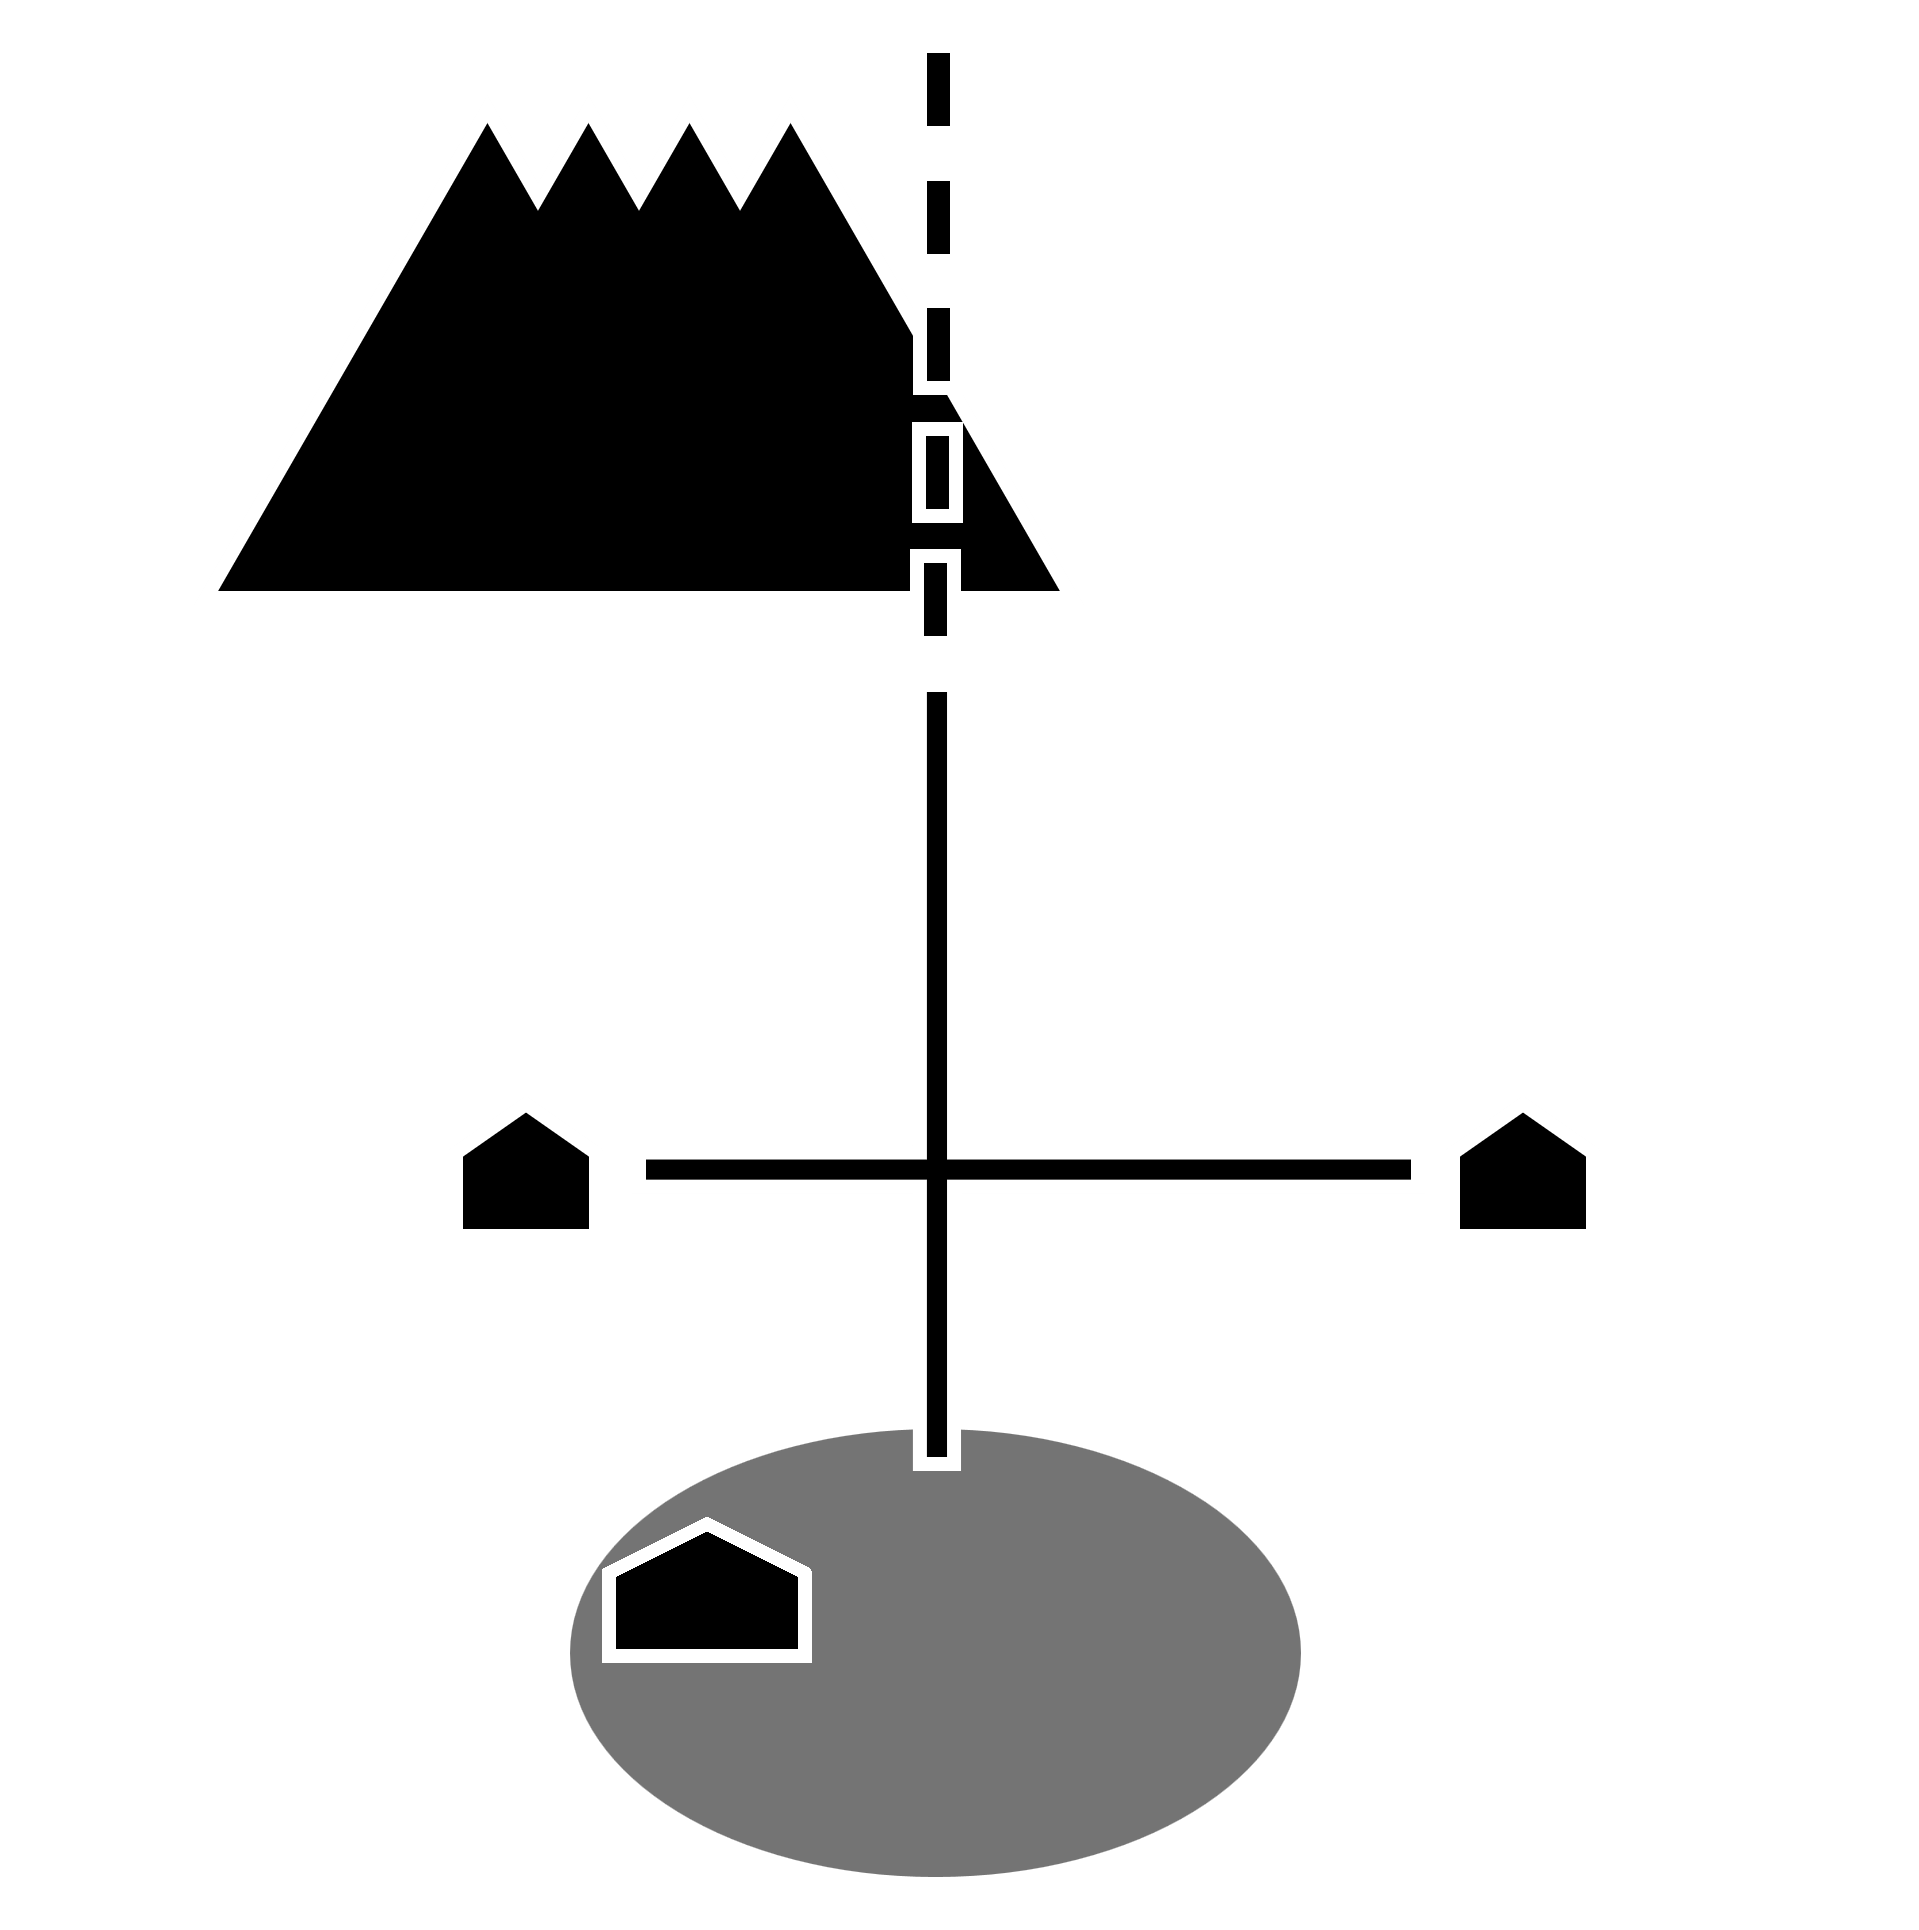
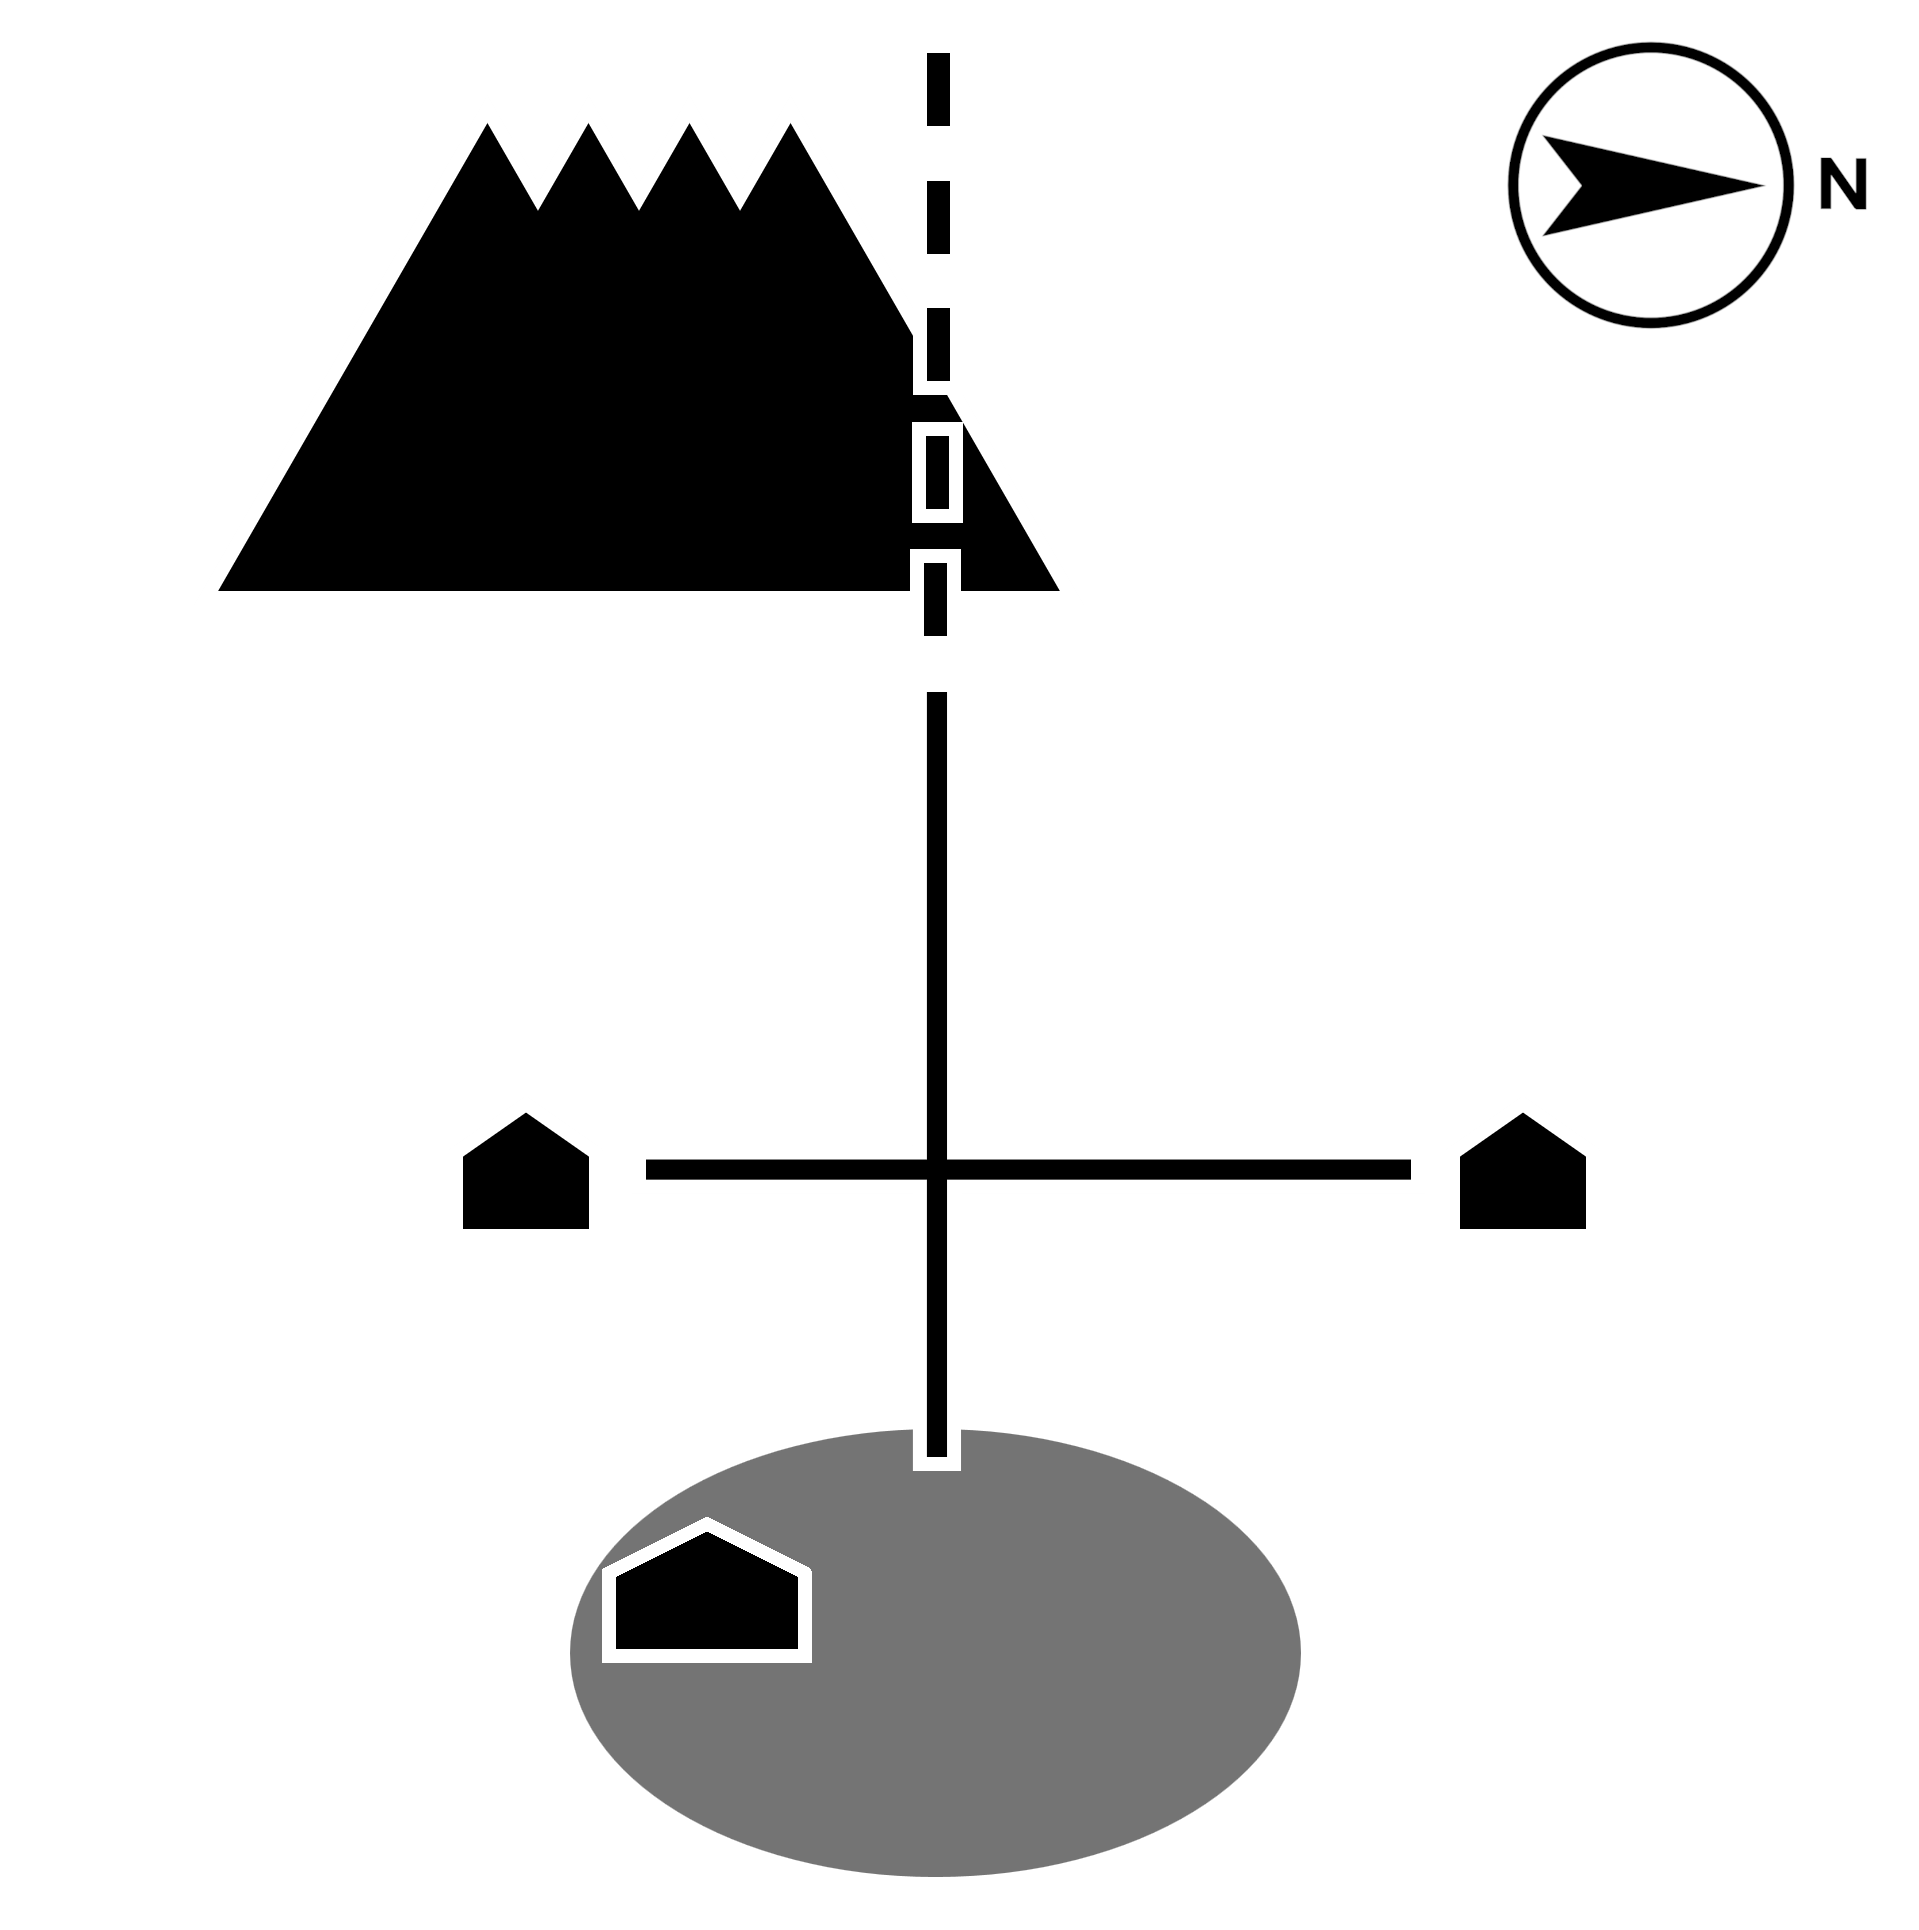
v4.4.1 JtoB更新、Tochinoミニマップ警備修正
JSONtoBTAPのミニマップ対応

diff --git a/md_generator/JSONtoBTAP/JtoBscript.js b/md_generator/JSONtoBTAP/JtoBscript.js
@@ -41,9 +41,23 @@ function code_btap(){
   
   //アイテム終了。
   //</item>
+  page_innerHTMLSTR += "</item>\n"
+  
+  
+  //ミニマップあり
+  if(Story["minimap"].length != 0){
+	let minimap_folder_name = prompt("ミニマップを配置しているフォルダ名を入力。例：ABC_Assist");
+	//キャンセルが押されたら、かわりに空白文字をいれておくこととする
+	if(!minimap_folder_name){
+		minimap_folder_name="";
+	}
+	page_innerHTMLSTR += "<mapimg:" + minimap_folder_name + ">\n"
+  }
+	
+	
   //<BFmap:ページ数>
-  page_innerHTMLSTR += "</item>\n\n<BFmap:" + 
-  Story["map"].length + ">\n";
+  page_innerHTMLSTR += "\n<BFmap:" + Story["map"].length + ">\n";
+  
   
   //MAP内の各ページを文章化
   for(var j=0; j<Story["map"].length; j++){
@@ -90,7 +104,30 @@ function code_btap(){
         + temp_code + "\n";
     }
     
-    
+	//ミニマップあり
+	if(Story["minimap"].length != 0){
+		temp_minimap = Story["minimap"][j];
+		
+		temp_minimap_script= ""; 
+		
+		//現在地を表示しない([1]が0)ときは、そのまま何も記述しない。
+		if(temp_minimap[1] != 0){
+			
+			//基本は "m:現在地番号"
+			temp_minimap_script = "m:" + temp_minimap[1];
+		
+		
+			//マップ番号がデフォルト([0]が1)でない場合
+			if(temp_minimap[0] != 1){
+				//m:現在地番号mマップ番号
+				temp_minimap_script += "m" + temp_minimap[0];
+			}
+		}
+		
+		page_innerHTMLSTR +=  temp_minimap_script + "\n";
+    }
+	
+	
     page_innerHTMLSTR += "bf]\n\n" 
     //ページ終わり
   }

diff --git a/stories/Tochino/index.html b/stories/Tochino/index.html
@@ -4,13 +4,13 @@
   <meta charset="UTF-8">
   <meta name="viewport" content="width=device-width, initial-scale=1.0">
   <title>TaSU-K25 4.4</title>
-  <link rel="stylesheet" href="../../source/style.css?26126">
+  <link rel="stylesheet" href="../../source/style.css?260426">
   
   
   <!-- ファビコン -->
-  <link rel="icon" href="../../source/favicon.ico?26126">
-  <link rel="apple-touch-icon" href="../../source/apple-touch-icon-180x180.png?26126" sizes="180x180">
-  <link rel="icon" href="../../source/favicon.png?26126">
+  <link rel="icon" href="../../source/favicon.ico?260426">
+  <link rel="apple-touch-icon" href="../../source/apple-touch-icon-180x180.png?260426" sizes="180x180">
+  <link rel="icon" href="../../source/favicon.png?260426">
 </head>
 
 <body id="body">
